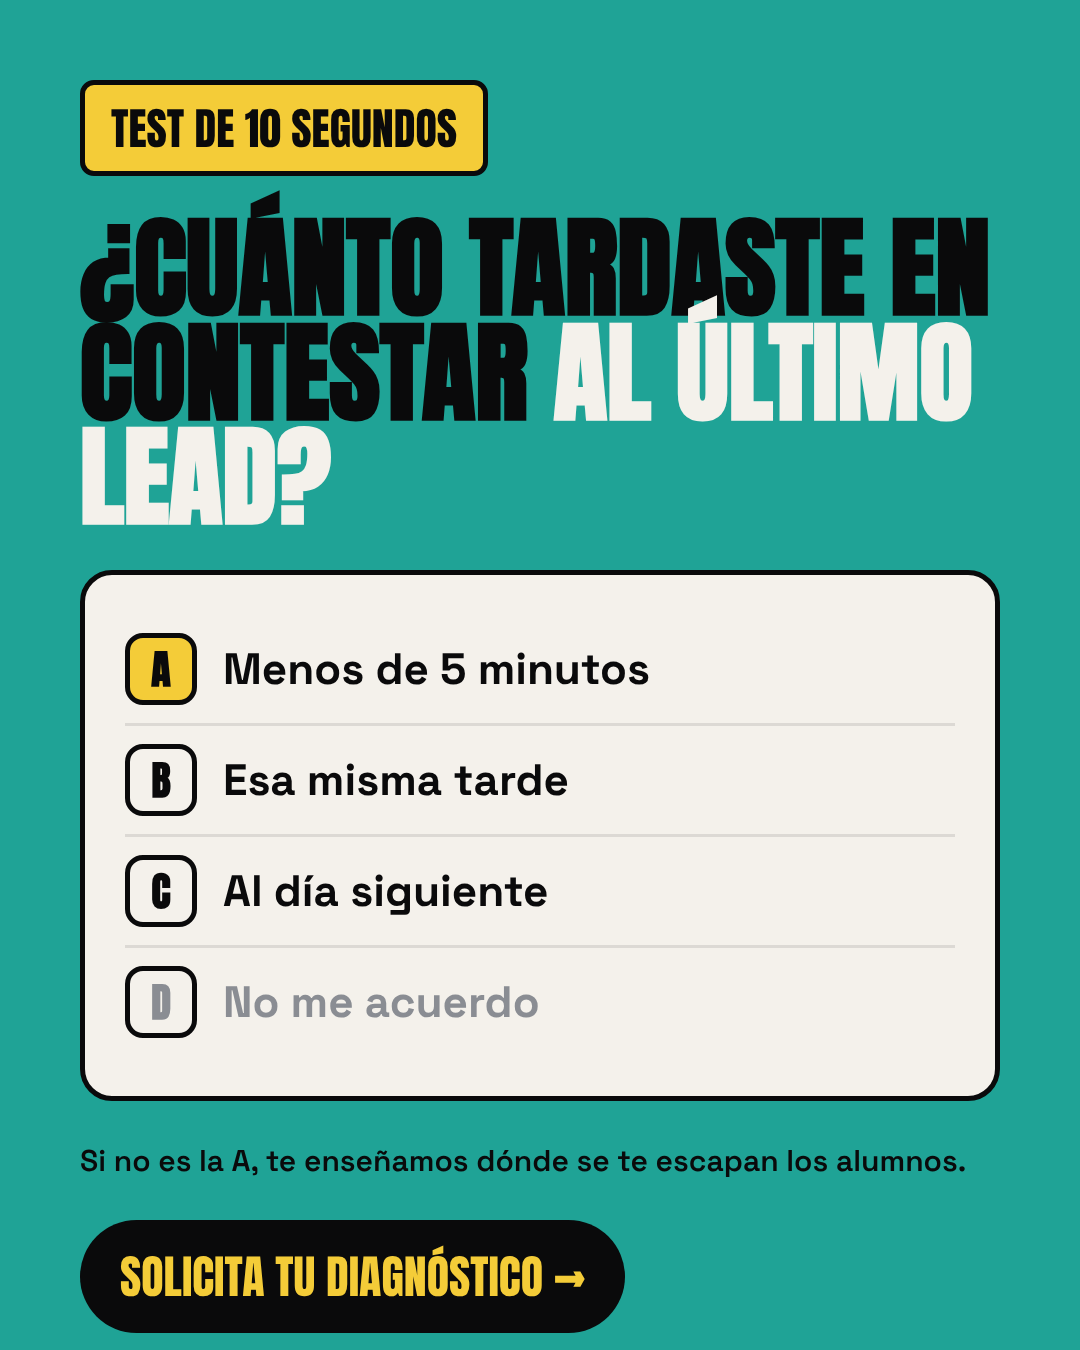
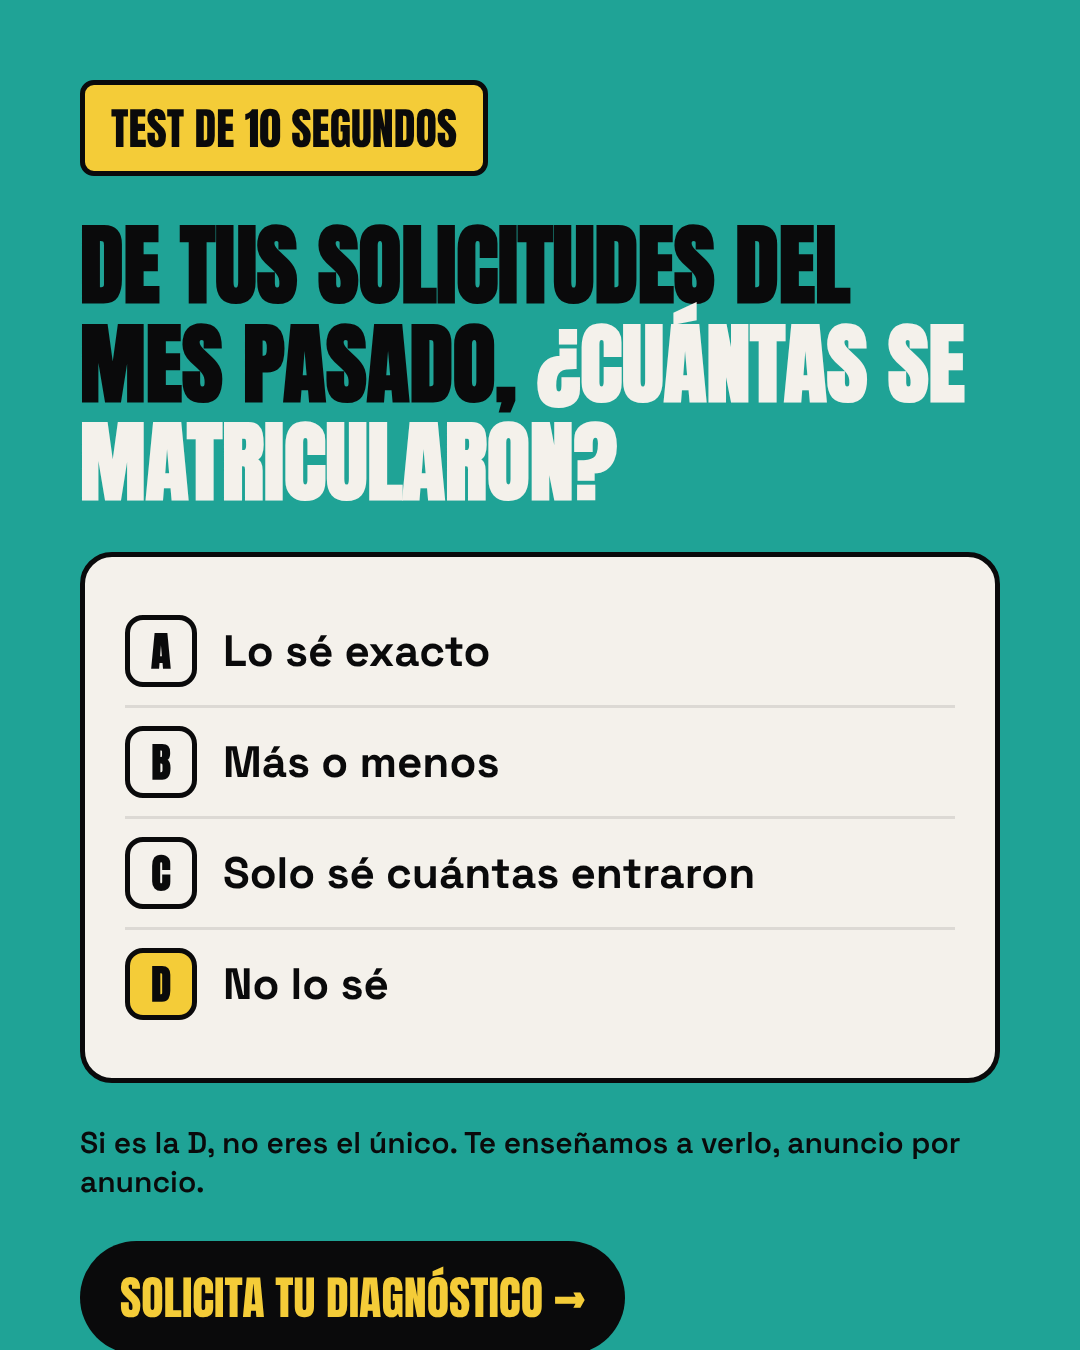
Creative: síntesis de competidores v2 (incorpora Contenido; columnas del encargo; E1 sin speed to lead)
Claude-Session: https://claude.ai/code/session_01MkLw18JtVaTcJ5wUw6JLih

Changed region(s): [[0.0611, 0.1244, 0.9472, 1.0], [0.2139, 0.4667, 0.6111, 0.5911], [0.2139, 0.6222, 0.7028, 0.6844]]

diff --git a/content/research/2026-11-competidores/bocetos/estaticos.html b/content/research/2026-11-competidores/bocetos/estaticos.html
@@ -28,9 +28,9 @@
 .ej{position:absolute;right:30px;top:24px;font-size:22px;font-weight:800;letter-spacing:.14em;color:rgba(10,10,11,.55)}
 </style>
 <div class="p" id="s1"><div class="tag">Test de 10 segundos</div>
- <h1 class="A" style="font-size:110px">¿Cuánto tardaste en contestar <i>al último lead?</i></h1>
- <div class="card"><div class="opt ok"><b>A</b>Menos de 5 minutos</div><div class="opt"><b>B</b>Esa misma tarde</div><div class="opt"><b>C</b>Al día siguiente</div><div class="opt no"><b>D</b>No me acuerdo</div></div>
- <div class="small">Si no es la A, te enseñamos dónde se te escapan los alumnos.</div><div class="cta">Solicita tu diagnóstico →</div></div>
+ <h1 class="A" style="font-size:88px;line-height:1.12">De tus solicitudes del mes pasado, <i>¿cuántas se matricularon?</i></h1>
+ <div class="card"><div class="opt"><b>A</b>Lo sé exacto</div><div class="opt"><b>B</b>Más o menos</div><div class="opt"><b>C</b>Solo sé cuántas entraron</div><div class="opt ok"><b>D</b>No lo sé</div></div>
+ <div class="small">Si es la D, no eres el único. Te enseñamos a verlo, anuncio por anuncio.</div><div class="cta">Solicita tu diagnóstico →</div></div>
 <div class="p" id="s2" style="background:var(--bk);color:var(--cr)"><div class="tag">Ojo: esto no es para todos</div>
  <h1 class="A" style="font-size:118px;color:var(--cr)">Solo para academias que <span style="color:var(--y)">ya invierten en anuncios.</span></h1>
  <div style="display:flex;flex-direction:column;gap:26px">

diff --git a/content/research/2026-11-competidores/ideas.md b/content/research/2026-11-competidores/ideas.md
@@ -1,63 +1,130 @@
-# Competencia España y EE. UU. · síntesis y 10 ideas (Creative v2, 3-nov-2026)
+# Competencia España y EE. UU. · síntesis y 10 ideas
+
+Creative v2. Versión 2 del 3-nov-2026, que incorpora la parte de Contenido.
 
 **Fuentes:**
-- `lista-agencias.md`: 19 agencias de España y EE. UU. (Creative, 29-oct).
-- `biblioteca-anuncios-paid.md` y `paid.md`: anuncios con más de 30 días activos, ofertas y embudos (Paid, 30-oct y 2-nov; rama `claude/qualivo-paid`).
-- `objeciones.md` y `pau-llambi-gtm-school.md`: palabras reales de los leads y el modelo de clase gratuita (Growth, 30-oct y 2-nov; rama `claude/qualivo-landing-vercel-nubk1i`).
-- Los datos de E-01, E-02 y E-03 en nuestra cuenta (Paid).
+- **Creative:** `lista-agencias.md`, 19 agencias (29-oct).
+- **Paid** (rama `claude/qualivo-paid`, 30-oct y 2-nov):
+  - `paid.md`: ofertas y embudos.
+  - `biblioteca-anuncios-paid.md`: anuncios con más de 30 días activos.
+- **Contenido:** `contenido.md`, orgánico de 14 cuentas de España y EE. UU. (29-oct).
+- **Growth** (rama `claude/qualivo-landing-vercel-nubk1i`, 30-oct y 2-nov):
+  - `objeciones.md`: frases literales de leads y datos del CRM.
+  - `pau-llambi-gtm-school.md`.
+- **Nuestra cuenta:** datos de E-01, E-02 y E-03 (Paid).
 
-**Leyenda:** [C] dato comprobado, [E] estimación.
-**Reglas:** sin casos de clientes, sin cifras sin fuente y sin abrir verticales nuevas. Nada se lanza sin el OK de Maikel.
+**Leyenda:** [C] comprobado en la fuente citada, [E] estimación o interpretación nuestra.
 
-## Lo que dice la competencia, en 6 líneas
-1. **La oferta de entrada es casi siempre la misma:** una llamada o diagnóstico gratis (~14 de 19) [C]. Ofrecerlo no nos diferencia; cómo lo contamos, sí.
-2. **Los anuncios que aguantan 100 días o más** venden «citas o clientes, no leads», culpan al seguimiento y usan un gancho por nicho [E, 21 anunciantes].
-3. **Formularios cortos, de 3 a 8 campos.** Solo 3 de 19 preguntan la inversión en anuncios a la vista [C]. Nuestro formulario de 9 campos dio 48 aperturas y 0 envíos; el corto ya da envíos aptos [C, Paid].
-4. **Reforleads rota los ganchos cada semana:** 16 anuncios activos, todos de menos de 8 días [C].
-5. **Pau Llambí:** clase gratuita con fecha, unos 40 textos activos a la vez y reels a cámara con «Comenta PALABRA» [C, Growth].
-6. **Nuestros leads (Growth):**
-   - En formación no les duele el seguimiento, que dicen que ya hacen ellos. Les duele «que entren más y que se apunten» y «no sé qué anuncio me trae alumnos».
-   - Piden una demo o el precio antes de reunirse.
-   - Responden «eso ya lo tengo» cuando ya tienen a alguien con los anuncios.
+**Reglas:**
+- Ninguna cifra sin fuente.
+- Sin casos de clientes, ni en anónimo (decisión de Maikel del 29-oct).
+- Nos inspiramos, no copiamos.
+- Nada se lanza sin el OK de Maikel.
 
-## Las 10 ideas
-| # | Idea | De dónde sale | Pieza | Métrica | Estado |
-|---|---|---|---|---|---|
-| 1 | **Ganchos con las palabras del lead**: «¿Sabes qué anuncio te trae alumnos?» y «Llegan, pero no se apuntan» | Objeciones de Growth y la respuesta más repetida del formulario, «no lo sé» (23 de 56) [C] | E-03 v3: solo cambian los 4 primeros segundos | Ven 3 s, CTR al formulario y aptos | Listo para hacer cuando haya datos del arranque nuevo |
-| 2 | **«Matrículas, no leads»**: el patrón de los anuncios que aguantan, con lenguaje de formación | Biblioteca [E] | Gancho y cierre: «No te traemos contactos. Te enseñamos cuáles se matriculan» | Aptos sobre envíos | Copy listo; falta OK |
-| 3 | **Rotación semanal de 3 ganchos** sobre la misma pieza, como Reforleads | `paid.md` [C] | El motor de E-03 ya permite cambiar el arranque en 1 h; 3 ganchos cada viernes en el bucle | Caída del CTR menor del 20 % por semana | Encaja en el bucle de los viernes |
-| 4 | **El filtro dicho en el anuncio**: «Solo para academias que ya invierten en anuncios» | Requisitos de Reforleads; idea 3 de Paid | Estático E2 (boceto abajo) y rótulo en el vídeo | % de aptos frente a la variante sin filtro | Boceto hecho |
-| 5 | **Un entregable concreto**: «En 24 h te decimos por escrito dónde se te escapan los alumnos» | 360 Clinic (informe en 24 h); idea 4 de Paid; la objeción «¿me pasas una demo?» | Estático E3 con un informe de ejemplo | Envíos por cada 100 aperturas y reuniones | Boceto hecho; el informe lo tiene que definir Growth |
-| 6 | **Una demo visible antes de la reunión**: el recorrido de 62 s como «demo», en la landing y en remarketing | Objeciones de Growth (piden demo) | Vídeo «recorrido» que ya existe, con la etiqueta de ejemplo ficticio | Visualizaciones al 75 % y reuniones de quien la vio | Pieza hecha; falta colocarla |
-| 7 | **«No sustituimos a tu agencia ni a tu CRM: conectamos lo que ya tienes»** | La objeción «eso ya lo tengo» (Growth) | Variante de copy y una tarjeta en el vídeo | % de aptos que ya tienen proveedor | Copy listo |
-| 8 | **Clase gratuita con fecha y fábrica de 24 textos** | Pau Llambí (Growth) | Concepto, textos y vídeos en Notion: https://app.notion.com/p/40c56e1ad6ed81a2aab0cd74468421d3 | Registros, asistencia, diagnósticos y reuniones | Hecho; falta la fecha de Maikel |
-| 9 | **Reels de Maikel a cámara con «Comenta PALABRA»**, y promocionar los que funcionen | Pau Llambí (Growth) | 3 guiones: «La solicitud de las 22:14», «Haz esta cuenta» y «La respuesta que más nos dan: no lo sé» | Comentarios y contactos por mensaje directo | Falta que Maikel grabe |
-| 10 | **Test a/b/c/d** como formato de gancho estático | Pau Llambí | Estático E1 (boceto abajo) | CTR frente a los estáticos actuales | Boceto hecho |
+## 1 · Lo que dice la competencia, en 7 líneas
 
-**Para que decida Maikel (son de modelo de negocio, no creativas):** garantía de resultado (4-5 de 19), pago por cita (2, en EE. UU.), precio público o «desde» (3), y WhatsApp como destino principal del anuncio (4 de 19, patrón español).
+1. **«Fugas», «diagnóstico» y «auditoría» ya no son nuestras.** Las usan ClinicSay, Reforleads, Scalimed, MindSell, Cronuts y Ravi Abuvala [C, Contenido]. La llamada o el diagnóstico gratis lo ofrecen ~14 de 19 [C, lista]. Nos distingue enseñar la fuga medida, no nombrarla.
+2. **El speed to lead con IA ya está concurrido en los anuncios de España:** AI4Growth (formación), MindSell, ClinicSay y Reforleads [C, Contenido]. AI4Growth, en formación, ya hace la demo de «una solicitud un sábado por la noche» [C]. Ese ángulo no lo usamos como gancho principal.
+3. **Las garantías se están volviendo lo normal en España:** Zarco, Más Captación y Ventas.io [C]. Nosotros no podemos prometer resultados.
+4. **Lo que aguanta 100 días o más en anuncios** vende oportunidades, no leads, y usa un gancho por nicho [E, 21 anunciantes, Paid].
+   - **Reforleads rota:** 16 anuncios activos, todos de menos de 8 días [C, Paid].
+   - **Formularios:** van de 3 a 8 campos. El nuestro de 9 campos dio 48 aperturas y 0 envíos [C, Paid].
+5. **El formato orgánico con más audiencia en los dos países es diagnosticar el negocio de otro en pantalla:**
+   - Romuald, serie ESDR: 26.000-46.000 visualizaciones por episodio.
+   - Hormozi: 1,7 M.
+   - Haynes y Ravi hacen lo mismo [C, Contenido].
+   
+   Nadie lo hace con el camino que va del formulario a la reunión [E].
+6. **Huecos libres en España:**
+   - la reunión celebrada como métrica;
+   - la asistencia;
+   - la señal de vuelta a Meta;
+   - reactivar la base antes de comprar más anuncios [E, Contenido].
+7. **Nuestros leads (Growth):**
+   - En formación no les duele el seguimiento, que dicen que ya hacen ellos. Les duele «que entren más, o que los que entran se apunten».
+   - «No lo sé» es la respuesta más repetida del formulario: 23 de 56 [C].
+   - Piden demo o precio antes de reunirse.
+   - Dicen «eso ya lo tengo».
+   - Los que invierten 0 € dieron 0 reuniones celebradas de 6 leads. Los de más de 2.000 €, 2 de 3 [C, CRM 15-sep a 27-oct].
 
-## 3 conceptos de vídeo
-1. **«La solicitud de las 22:14»**, con Maikel a cámara o en motion.
-   - Entra una solicitud de noche y nadie contesta hasta el día siguiente.
-   - Mientras tanto, la persona ya ha escrito a otras academias.
-   - Cierre: el diagnóstico o la clase gratuita.
-   - Responde al dolor de velocidad sin cifras inventadas.
-2. **«Demo en 30 segundos»**: versión corta del recorrido, solo panel y WhatsApp que cualifica.
-   - Pensado para quien pide «una demo para convencerme».
-   - Va a remarketing y a la landing.
-3. **«Tres arranques, un cuerpo»**: el cuerpo de E-03 con tres ganchos que rotan cada semana:
+## 2 · Las 10 ideas, ordenadas por impacto y esfuerzo
+
+Impacto y esfuerzo son estimaciones [E]. Impacto se refiere a leads aptos y reuniones celebradas, no a volumen. Las abreviaturas de las objeciones vienen de `objeciones.md`, sección 1:
+
+| Abreviatura | Objeción |
+|---|---|
+| **O-apuntan** | «que entren más, o que los que entran se apunten» (frases 1 y 2) |
+| **O-precio** | precio antes de la reunión (3) |
+| **O-yalotengo** | «eso ya lo tengo» (4 y 7) |
+| **O-demo** | «pásame una demo para convencerme» (5) |
+| **O-momento** | falta de agenda (8) |
+
+**Propuesta de valor:** captación conectada a ventas (anuncios, landing, formulario, cualificación, WhatsApp y voz) y todo visible en un panel.
+
+| # | Idea | Impacto / esfuerzo | A quién se la vemos | Por qué funciona | Objeción que responde | Encaje con la propuesta de valor | Dueño | ¿Necesita a Maikel? |
+|---|---|---|---|---|---|---|---|---|
+| 1 | **Rotar 3 ganchos por semana sobre el cuerpo de E-03**, con palabras del lead: «¿Sabes qué anuncio te trae alumnos?» y «Llegan, pero no se apuntan» | Alto / bajo | Reforleads: 16 anuncios de menos de 8 días [C, Paid] | El gancho se quema antes que el cuerpo. Cambiar solo 4 s mantiene el aprendizaje del conjunto [E]. E-03 tuvo 11 % de vistas a 3 s frente al 30-36 % del anuncio viejo [C, Paid] | O-apuntan | Alto: el cuerpo ya enseña todo el sistema | Creative (piezas) y Paid (montaje) | Solo el OK de presupuesto |
+| 2 | **Decir el filtro en el anuncio:** «Solo para academias que ya invierten en anuncios» | Alto / bajo | Reforleads («No es para autónomos ni para empresas sin equipo comercial»); Zarco (formulario que puntúa) [C] | Con inversión de 0 € no sale ninguna reunión celebrada [C, CRM]. Filtrar antes del clic abarata el lead apto [E] | O-precio: el autónomo de ticket bajo se va solo | Alto | Creative y Paid | Sí: confirmar el umbral (¿«ya invierten» o «500 € o más»?) |
+| 3 | **«Matrículas, no contactos»:** la reunión celebrada y la matrícula como métrica, en gancho y cierre | Alto / bajo | Zarco («oportunidades reales calificadas»), Cronuts («No por lead. Por instalación») [C] | Es lo que aguanta en la Biblioteca [E, Paid] y es un hueco en el orgánico en España [E, Contenido] | O-apuntan | Muy alto: es el panel | Creative (copy) y Contenido (orgánico, sus ideas 3 y 6) | No |
+| 4 | **Demo visible antes de la reunión:** el recorrido de 62 s, con la etiqueta de ejemplo ficticio, en la landing y en remarketing | Alto / bajo (ya existe) | AI4Growth (demo simulada), ClinicSay («Probar demo») [C] | Contesta la petición literal del lead y ahorra la reunión de «convencerme» [E] | O-demo | Alto | Growth (landing) y Paid (remarketing) | No |
+| 5 | **Diagnóstico en pantalla del camino formulario → WhatsApp → reunión**, con datos de ejemplo | Alto / alto | Romuald (ESDR), Haynes («How To Find What's Actually Broken In Your Funnel»), Ravi («for a Stranger») [C, Contenido] | Es el formato con más audiencia y el contenido es la demo del servicio. Nadie lo hace con este tramo [E] | O-demo y O-yalotengo | Muy alto | Contenido (su idea 1) y Creative (corte de 30-40 s para anuncio) | Sí: graba (previsto el 26-nov en el plan de Contenido) |
+| 6 | **«No sustituimos a tu agencia ni a tu CRM: conectamos lo que ya tienes»** | Medio / bajo | Nadie lo dice. Todos venden sustituir [E] | Quita la objeción del proveedor actual sin atacarlo | O-yalotengo | Alto | Creative (copy y tarjeta en vídeo) | No |
+| 7 | **La calculadora de fugas como llamada a la acción de las piezas frías**, en vez de pedir la reunión | Medio / bajo | AI4Growth (calculadora → llamada), Hormozi (roadmap gratis), Cronuts (calculadoras) [C, Contenido] | Pide menos que una reunión. Quien la usa ya se ha puesto cifras [E] | O-precio y O-momento | Alto | Growth (`/calculadora-de-fugas/`) y Paid (conjunto de prueba) | No |
+| 8 | **Un entregable escrito:** «En 24 h te decimos por escrito dónde se te escapan los alumnos» | Medio / medio | 360 Clinic (informe en 24 h) [C, Paid]; idea 4 de Paid | Cambia «una llamada» por algo tangible. Responde a quien quiere convencerse antes [E] | O-demo y O-precio | Alto | Growth (definir el informe) y Creative (estático E3) | Sí: decidir si se ofrece y quién lo hace |
+| 9 | **Clase gratuita con fecha y fábrica de textos** | Medio-alto / alto | Pau Llambí [C, Growth] | La fecha crea urgencia. Una clase filtra y educa a la vez [E] | O-momento y O-demo | Alto | Creative (concepto y 24 textos, hecho) y Growth (registro) | Sí: fecha, plataforma y grabar 3 vídeos |
+| 10 | **«Antes de pagar otro mes de anuncios, mira a los que ya te escribieron»:** reactivar la base | Medio / medio | Robb Bailey: comunidad de 13.816 alrededor de esto [C, Contenido]. En España, nadie con audiencia | Habla del dinero ya gastado, no de gastar más [E] | O-precio | Medio: es una puerta de entrada, no todo el sistema | Contenido (su idea 4) y Creative (ángulo de anuncio si sale el dato) | No, salvo el experimento con nuestra base |
+
+**Decisiones de Maikel (modelo de negocio, no creativas):**
+- **Garantía de resultado.** La dan 4-5 de 19. En España empieza a ser lo normal [C]. Hoy no prometemos.
+- **Pago por cita.** 2 de 19, en EE. UU.
+- **Precio público o «desde».** 3 de 19.
+- **WhatsApp como destino principal del anuncio.** 4 de 19, patrón español. Es una decisión de Paid y Maikel.
+
+**Lo que no hacemos [E]:**
+- Speed to lead como gancho principal: concurrido, y AI4Growth ya tiene la demo del sábado por la noche.
+- «Si empezara de cero»: es tono de gurú.
+- Las plantillas de títulos de Haynes y Ravi.
+- Garantías mientras Maikel no lo decida.
+
+**Conflicto que hay que resolver:** Pau Llambí usa reels con «Comenta PALABRA» y Contenido decidió no usarlo en sus 8 ideas. No lo meto en las 10. Si Maikel quiere probarlo, sería solo en la clase gratuita.
+
+## 3 · Tres conceptos de vídeo
+
+1. **«Dónde se rompe»**, 30-40 s, sobre la idea 5. Maikel aparece en una esquina, o va en motion si no graba.
+   - Pantalla con datos de ejemplo bien visibles. El camino es: solicitud → WhatsApp → reserva → ¿se celebró?
+   - En cada paso se marca dónde se cae la gente.
+   - Cierre: «¿Te miramos el tuyo?» → diagnóstico.
+   - Se inspira en el formato ESDR y en Haynes, pero con nuestro tramo.
+   - **Sustituye a «La solicitud de las 22:14»** de la versión 1, que se parecía demasiado a la demo de AI4Growth.
+2. **«Demo en 30 segundos»**, sobre la idea 4.
+   - Versión corta del recorrido: WhatsApp que cualifica, agente de voz que apunta en el CRM y panel.
+   - Va a remarketing y a la landing, para quien pide «una demo para convencerme».
+3. **«Tres arranques, un cuerpo»**, sobre las ideas 1 y 3. El cuerpo de E-03, con tres ganchos que rotan cada semana:
    - «¿Sabes qué anuncio te trae alumnos?»
    - «Llegan, pero no se apuntan.»
    - «Ya tengo a alguien con los anuncios.» → «Perfecto: nosotros conectamos lo que viene después.»
 
-## 3 conceptos de estático (bocetos en `bocetos/est-s1.png`, `est-s2.png` y `est-s3.png`; fuente en `bocetos/estaticos.html`)
-- **E1 · Test de 10 segundos:** «¿Cuánto tardaste en contestar al último lead? A, B, C o D».
-- **E2 · El filtro dicho:** «Solo para academias que ya invierten en anuncios», con 3 ✓ y 1 ✕.
-- **E3 · Entregable:** «Te decimos dónde se te escapan los alumnos», con un informe de ejemplo de 4 puntos.
+## 4 · Tres conceptos de estático
 
-Los bocetos están hechos en HTML con la identidad de E-03 (turquesa, Anton y crema), sin gastar créditos de Higgsfield. Si pasan, se producen igual que E-03.
+Los bocetos están en `bocetos/est-s1.png`, `est-s2.png` y `est-s3.png`, en formato 4:5. La fuente es `bocetos/estaticos.html`.
 
-## Propuesta de orden
-1. Esta semana: idea 3 (rotación de ganchos), con los ganchos de la idea 1.
-2. Después: el estático E2 (idea 4).
-3. En cuanto Maikel ponga fecha: la clase gratuita (idea 8).
+- **E1 · Test de 10 segundos** (ideas 3 y 7): «De tus solicitudes del mes pasado, ¿cuántas se matricularon?».
+  - Opciones A, B, C y D, con la D («No lo sé») resaltada.
+  - Usa la respuesta más repetida del formulario (23 de 56) sin citarla.
+  - Ya no pregunta por la velocidad de respuesta, que está concurrida.
+- **E2 · El filtro dicho** (idea 2): «Solo para academias que ya invierten en anuncios», con 3 ✓ y 1 ✕.
+- **E3 · Entregable** (idea 8): «Te decimos dónde se te escapan los alumnos», con un informe de 4 puntos marcado «EJEMPLO DE INFORME».
+
+**Sobre Higgsfield:** el encargo pedía bocetarlos con Higgsfield. Los he hecho en HTML con la identidad de E-03 (turquesa, Anton y crema) porque son piezas de texto y tipografía: la IA de imagen deforma las letras y gasta créditos sin aportar. Si alguno pasa y necesita fondo o foto, esa capa se genera en Higgsfield.
+
+## 5 · Propuesta de orden
+
+1. **Esta semana:**
+   - idea 1 (rotación de ganchos) con los ganchos de las ideas 1 y 3;
+   - idea 4 (demo en la landing).
+2. **Siguiente:**
+   - estático E2 (idea 2), en cuanto Maikel confirme el umbral;
+   - E1 en paralelo.
+3. **Cuando Maikel grabe:**
+   - vídeo «Dónde se rompe» (idea 5);
+   - clase gratuita (idea 9).
